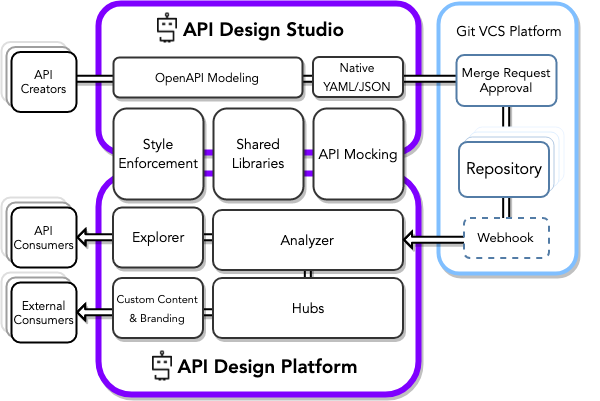
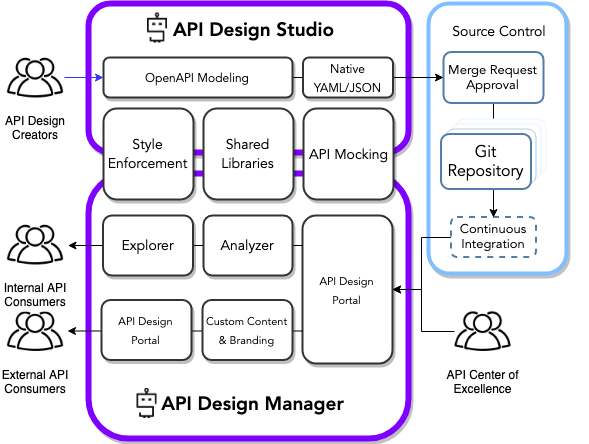
Update design manager image

Changed region(s): [[0.0, 0.0, 0.9779, 1.0]]

diff --git a/docs/design-manager/index.md b/docs/design-manager/index.md
@@ -18,8 +18,4 @@ permalink: design-manager
 Stoplight's API Design Manager is a next-generation offering for managing API
 designs and assets at any scale.
 
-![Design Manager Overview](/assets/images/design-manager-overview.png)
-
-## Component Layout
-
 ![Design Manager Overview](/assets/images/design-manager-breakdown.png)
